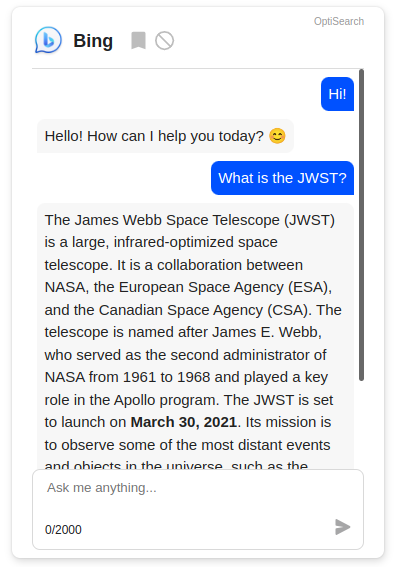
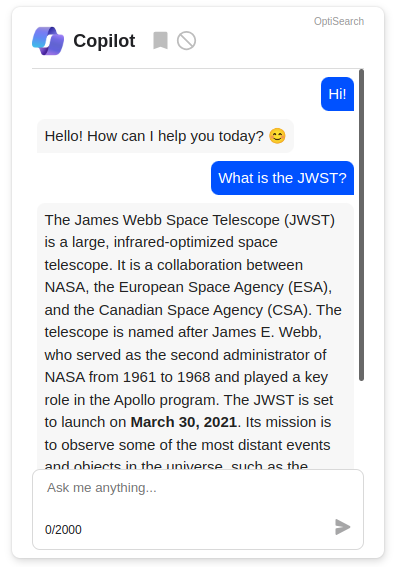
[FIX] Bingchat: Copilot rebranding

Changed region(s): [[0.0608, 0.03, 0.5165, 0.1199]]

diff --git a/docs/privacy.html b/docs/privacy.html
@@ -69,11 +69,11 @@
 
       <h2>Reliance on External Services</h2>
 
-      <p>OptiSearch, Bing Chat (GPT-4) in Google, and Gemini next to Google results ("the Extensions") 
+      <p>OptiSearch, Copilot in Google, and Gemini next to Google results ("the Extensions") 
         rely on external services and libraries, including <a href="https://github.com/Glench/ExtPay">ExtPay.js</a>, which utilizes Stripe for 
         payment processing and PayPal for donation processing, to provide certain features and 
         functionalities, such as processing payments for premium memberships and accepting donations.
-         Additionally, the Extensions integrate with third-party applications, including Bing Chat, ChatGPT, and Google Gemini, 
+         Additionally, the Extensions integrate with third-party applications, including Microsoft Copilot, ChatGPT, and Google Gemini, 
          to enhance their functionalities and user experiences. While we make every effort to ensure the smooth operation of the Extensions, 
          it is important to understand that we may not have full control over these external services, and they may be subject to changes, disruptions, or discontinuation by their respective providers.
       </p>
@@ -83,7 +83,7 @@
       <p>The providers of external services and libraries, including ExtPay.js, Stripe, and PayPal, 
         may update their services, change their policies, or cease to operate at any time without prior notice. 
         These changes may impact the functionality of the Extensions, including premium membership payment 
-        processing, donation processing, and other related services. Similarly, third-party applications such as Bing Chat, ChatGPT, and Google Gemini may introduce updates or changes that affect the integration with the Extensions.
+        processing, donation processing, and other related services. Similarly, third-party applications such as Microsoft Copilot, ChatGPT, and Google Gemini may introduce updates or changes that affect the integration with the Extensions.
       </p>
 
       <h2>Liability and Continuity</h2>
@@ -93,7 +93,7 @@
 
       <h2>User Responsibility</h2>
 
-      <p>Users of the Extensions are responsible for reviewing the terms and policies of external services, such as Stripe and PayPal, and third-party applications, including Bing Chat, ChatGPT, and Google Gemini, that they interact with through the Extensions. Users should also ensure that they comply with the terms and conditions of these services and applications.
+      <p>Users of the Extensions are responsible for reviewing the terms and policies of external services, such as Stripe and PayPal, and third-party applications, including Microsoft Copilot, ChatGPT, and Google Gemini, that they interact with through the Extensions. Users should also ensure that they comply with the terms and conditions of these services and applications.
       </p>
       
       <p>The links to the terms and policies of those services are listed below:</p>
@@ -101,7 +101,7 @@
         <li><a href="https://stripe.com/en-be/privacy">Stripe</a></li>
         <li><a href="https://www.paypal.com/webapps/mpp/ua/privacy-full">PayPal</a></li>
         <li><a href="https://openai.com/privacy/">ChatGPT</a></li>
-        <li><a href="https://www.microsoft.com/en-us/servicesagreement/">Bing Chat</a></li>
+        <li><a href="https://www.microsoft.com/en-us/servicesagreement/">Microsoft Copilot</a></li>
         <li><a href="https://support.google.com/bard/answer/13594961">Google Gemini</a></li>
       </ul>
 
@@ -111,7 +111,7 @@
         <a href="mailto:info.optisearch@gmail.com">info.optisearch@gmail.com</a>.
       </p>
       <p>
-        February 2024
+        March 2024
       </p>
     </div>
   </body>

diff --git a/src/chat/bing_chat_session.js b/src/chat/bing_chat_session.js
@@ -1,10 +1,10 @@
 class BingChatSession extends ChatSession {
   properties = {
-    name: "Bing",
+    name: "Copilot",
     link: "https://www.bing.com/search",
-    icon: "src/images/bingchat.png",
-    local_icon: "bingchat.png",
-    href: "https://www.bing.com/search?form=MY0291&OCID=MY0291&q=Bing+AI&showconv=1",
+    icon: "src/images/copilot.png",
+    local_icon: "copilot.png",
+    href: "https://www.bing.com/search?form=MY0291&OCID=MY0291&q=Copilot&showconv=1",
   }
   static errors = {
     session: {
@@ -12,12 +12,6 @@ class BingChatSession extends ChatSession {
       url: 'https://login.live.com/login.srf?wa=wsignin1.0&wreply=https%3A%2F%2Fwww.bing.com%2Ffd%2Fauth%2Fsignin%3Faction%3Dinteractive%26provider%3Dwindows_live_id%26return_url%3Dhttps%3A%2F%2Fwww.bing.com%2F%3Fwlexpsignin%3D1%26src%3DEXPLICIT',
       text: _t("Please login to Bing with your Microsoft account, then refresh"),
       button: _t("Login to $AI$", "Bing"),
-    },
-    forbidden: {
-      code: 'BING_CHAT_FORBIDDEN',
-      url: 'https://www.bing.com/new?form=MY028Z&OCID=MY028Z',
-      text: _t("Unfortunately you don't have access to Bing Chat yet, please register to the waitlist"),
-      button: _t("Register to the waitlist"),
     },
   }
   static get storageKey() {
@@ -59,8 +53,6 @@ class BingChatSession extends ChatSession {
     const session = await BingChatSession.offscreenAction({ action: "session" });
     if (session.result?.value === 'UnauthorizedRequest')
       throw BingChatSession.errors.session;
-    if (session.result?.value === 'Forbidden')
-      throw BingChatSession.errors.forbidden;
     this.session = session;
     this.session.isStartOfSession = true;
     return this.session;
@@ -94,7 +86,7 @@ class BingChatSession extends ChatSession {
     const { packet } = await this.socketReceive();
     if (packet !== '{}\x1e') {
       this.onErrorMessage();
-      err(`Error with Bing Chat: first packet received is ${packet}`);
+      err(`Error with Bing Copilot: first packet received is ${packet}`);
       return;
     }
 
@@ -114,7 +106,7 @@ class BingChatSession extends ChatSession {
         const activated = await this.internalSearchActivated();
         glass.textContent = '';
         setSvg(glass, SVG[activated ? 'magnifyingGlass' : 'emptySet'])
-        glass.title = activated ? _t("Bing internal search enabled") : _t("Bing internal search disabled");
+        glass.title = activated ? _t("Internal search enabled") : _t("Internal search disabled");
       };
       updateInternalSearchButton();
       glass.addEventListener('click', async () => {
@@ -174,7 +166,7 @@ class BingChatSession extends ChatSession {
           }
           if (body.item.result) {
             if (body.item.result.value === 'Throttled') {
-              this.onErrorMessage("⚠ " + _t("Sorry, you've reached the limit of messages you can send to Bing within 24 hours. Check back soon!"));
+              this.onErrorMessage("⚠ " + _t("Sorry, you've reached the limit of messages you can send to Copilot within 24 hours. Check back soon!"));
               return;
             }
             if (body.item.result.value === 'UnauthorizedRequest') {
@@ -184,8 +176,6 @@ class BingChatSession extends ChatSession {
             if (body.item.result.error) {
               if (body.item.result.error === 'UnauthorizedRequest' || body.item.result.value === 'CaptchaChallenge')
                 throw BingChatSession.errors.session;
-              if (body.item.result.error === 'Forbidden')
-                throw BingChatSession.errors.forbidden;
             }
             if (body.item.result.value !== 'Success' && body.item.result.message) {
               this.onMessage(ChatSession.infoHTML(body.item.result.message));

diff --git a/src/background/background.js b/src/background/background.js
@@ -84,7 +84,7 @@ function handleActionWindow(action) {
 
 /**
  * Check if there is an offscreen document active and create one if not.
- * This method should be executed only on the BingChat extension and with manifest v3.
+ * This method should be executed only on the Copilot extension and with manifest v3.
  */
 async function handleSetupOffscreen() {
   const already = await setupOffscreenDocument('src/chat/bingchat/offscreen.html');
@@ -95,7 +95,7 @@ let creating; // A global promise to avoid concurrency issues
 
 /**
  * Check if there is an offscreen document active and create one if not.
- * This method should be executed only on the BingChat extension and with manifest v3.
+ * This method should be executed only on the Copilot extension and with manifest v3.
  */
 async function setupOffscreenDocument(path) {
   const offscreenUrl = chrome.runtime.getURL(path);
@@ -128,7 +128,7 @@ async function setupOffscreenDocument(path) {
 
 /**
  * Check if there is an offscreen document active.
- * This method should be executed only on the BingChat extension and with manifest v3.
+ * This method should be executed only on the Copilot extension and with manifest v3.
  */
 async function hasOffscreenDocument(offscreenUrl) {
   const matchedClients = await clients.matchAll();

diff --git a/src/popup/popup.js b/src/popup/popup.js
@@ -154,7 +154,7 @@
     if (isOptiSearch && category === 'AI Assitant') {
       el('a', {
         className: 'ad',
-        innerHTML: _t('Get answers from <strong>$AI$</strong>', 'Bing AI'),
+        innerHTML: _t('Get answers from <strong>$AI$</strong>', 'Microsoft Copilot'),
         href: webstores['bingchat'],
       }, sublist);
       el('a', {
@@ -183,7 +183,7 @@
   if (WhichExtension === 'bard') {
     el('a', {
       className: 'ad',
-      innerHTML: _t('I want answers from <strong>$AI$</strong> too!', 'Bing AI'),
+      innerHTML: _t('I want answers from <strong>$AI$</strong> too!', 'Microsoft Copilot'),
       href: webstores['bingchat'],
     }, optionsContainer);
   }

diff --git a/src/popup/premium.js b/src/popup/premium.js
@@ -9,7 +9,7 @@
   const benefits = {
     save: [SVG.filledBookmark, _t('<strong>Save your conversation</strong> for later')],
     chat: [SVG.chat, _t('<strong>Chat directly</strong> in the result page')],
-    bingSearch: [SVG.emptySet, _t('<strong>Disable Bing internal search</strong> and save time')],
+    bingSearch: [SVG.emptySet, _t("<strong>Disable internal search</strong> and save time")],
   };
   const benefitsContainer = $("#benefits");
   Object.entries(benefits).forEach(([id, [icon, html]]) => {

diff --git a/src/settings.js b/src/settings.js
@@ -51,8 +51,8 @@ switch(WhichExtension) {
       default: 'balanced',
     }
     Settings['AI Assitant']['bingInternalSearch'] = {
-      name: "Bing internal search",
-      title: 'Allow Bing to make internal search before giving you an answer. Takes more time to answer.',
+      name: "Internal search",
+      title: "Enable internal search for Copilot to provide more comprehensive answers. This may take slightly longer.",
       default: true,
       active: false,
     }

diff --git a/src/constants.js b/src/constants.js
@@ -1,8 +1,8 @@
 const WhichExtension = (() => {
-  const extensionName = chrome.runtime.getManifest().name;
-  if (extensionName.includes('Bing'))
+  const iconPath = chrome.runtime.getManifest().icons["128"];
+  if (iconPath.includes('bingchat'))
     return 'bingchat';
-  if (extensionName.includes('Gemini'))
+  if (iconPath.includes('bard'))
     return 'bard';
   return 'optisearch';
 })();

diff --git a/README.md b/README.md
@@ -1,8 +1,8 @@
-# OptiSearch ｜ Bing Chat (GPT-4) in Google ｜ Gemini next to Google results
+# OptiSearch ｜ Copilot in Google ｜ Gemini next to Google results
 
 ![License](https://img.shields.io/github/license/dj0ulo/optisearch)
 
-This repository contains the code of **OptiSearch**, **Bing Chat (GPT-4) in Google** and **Gemini next to Google results** browser extensions. They share the same codebase core. 
+This repository contains the code of **OptiSearch**, **Copilot in Google** and **Gemini next to Google results** browser extensions. They share the same codebase core. 
 
 ### <img alt="OptiSearch icon" src="./icons/optisearch/icon_128.png" width="24" height="24"> OptiSearch
 ![License](https://img.shields.io/chrome-web-store/users/bbojmeobdaicehcopocnfhaagefleiae?label=Chrome%20Users) ![License](https://img.shields.io/amo/users/optisearch?label=Firefox%20Users)
@@ -13,10 +13,10 @@ Displays relevant informations from search engine results directly alongside the
 
 [Install from Mozilla Add-on Store](https://addons.mozilla.org/fr/firefox/addon/optisearch/)
 
-### <img alt="Bing Chat (GPT-4) in Google icon" src="./icons/bingchat/icon_128.png" width="24" height="24"> Bing Chat (GPT-4) in Google
+### <img alt="Copilot in Google icon" src="./icons/bingchat/icon_128.png" width="24" height="24"> Copilot in Google
 ![License](https://img.shields.io/chrome-web-store/users/pcnhobmoglanpljipbomknafhdlcgcng?label=Chrome%20Users) ![License](https://img.shields.io/amo/users/bing-chat-gpt-4-in-google?label=Firefox%20Users)
 
-Displays the answer from Bing Chat AI alongside search engine results.
+Displays the answer from Microsoft Copilot alongside search engine results.
 
 [Install from Chrome Web Store](https://chrome.google.com/webstore/detail/bing-chat-gpt-4-in-google/pcnhobmoglanpljipbomknafhdlcgcng)
 
@@ -42,7 +42,7 @@ Google, Bing, Baidu, DuckDuckGo, Ecosia, Brave Search
     ```
 1. You can load both extension in your favorite browser directly from the root of the repo, you just need to build the manifest first, use the flag `-f` to build the manifest for Firefox.
     
-    E.g. to build the firefox manifest for **Bing Chat (GPT-4) in Google**:
+    E.g. to build the firefox manifest for **Copilot in Google**:
     ```
     npm build.mjs bingchat -f
     ```
